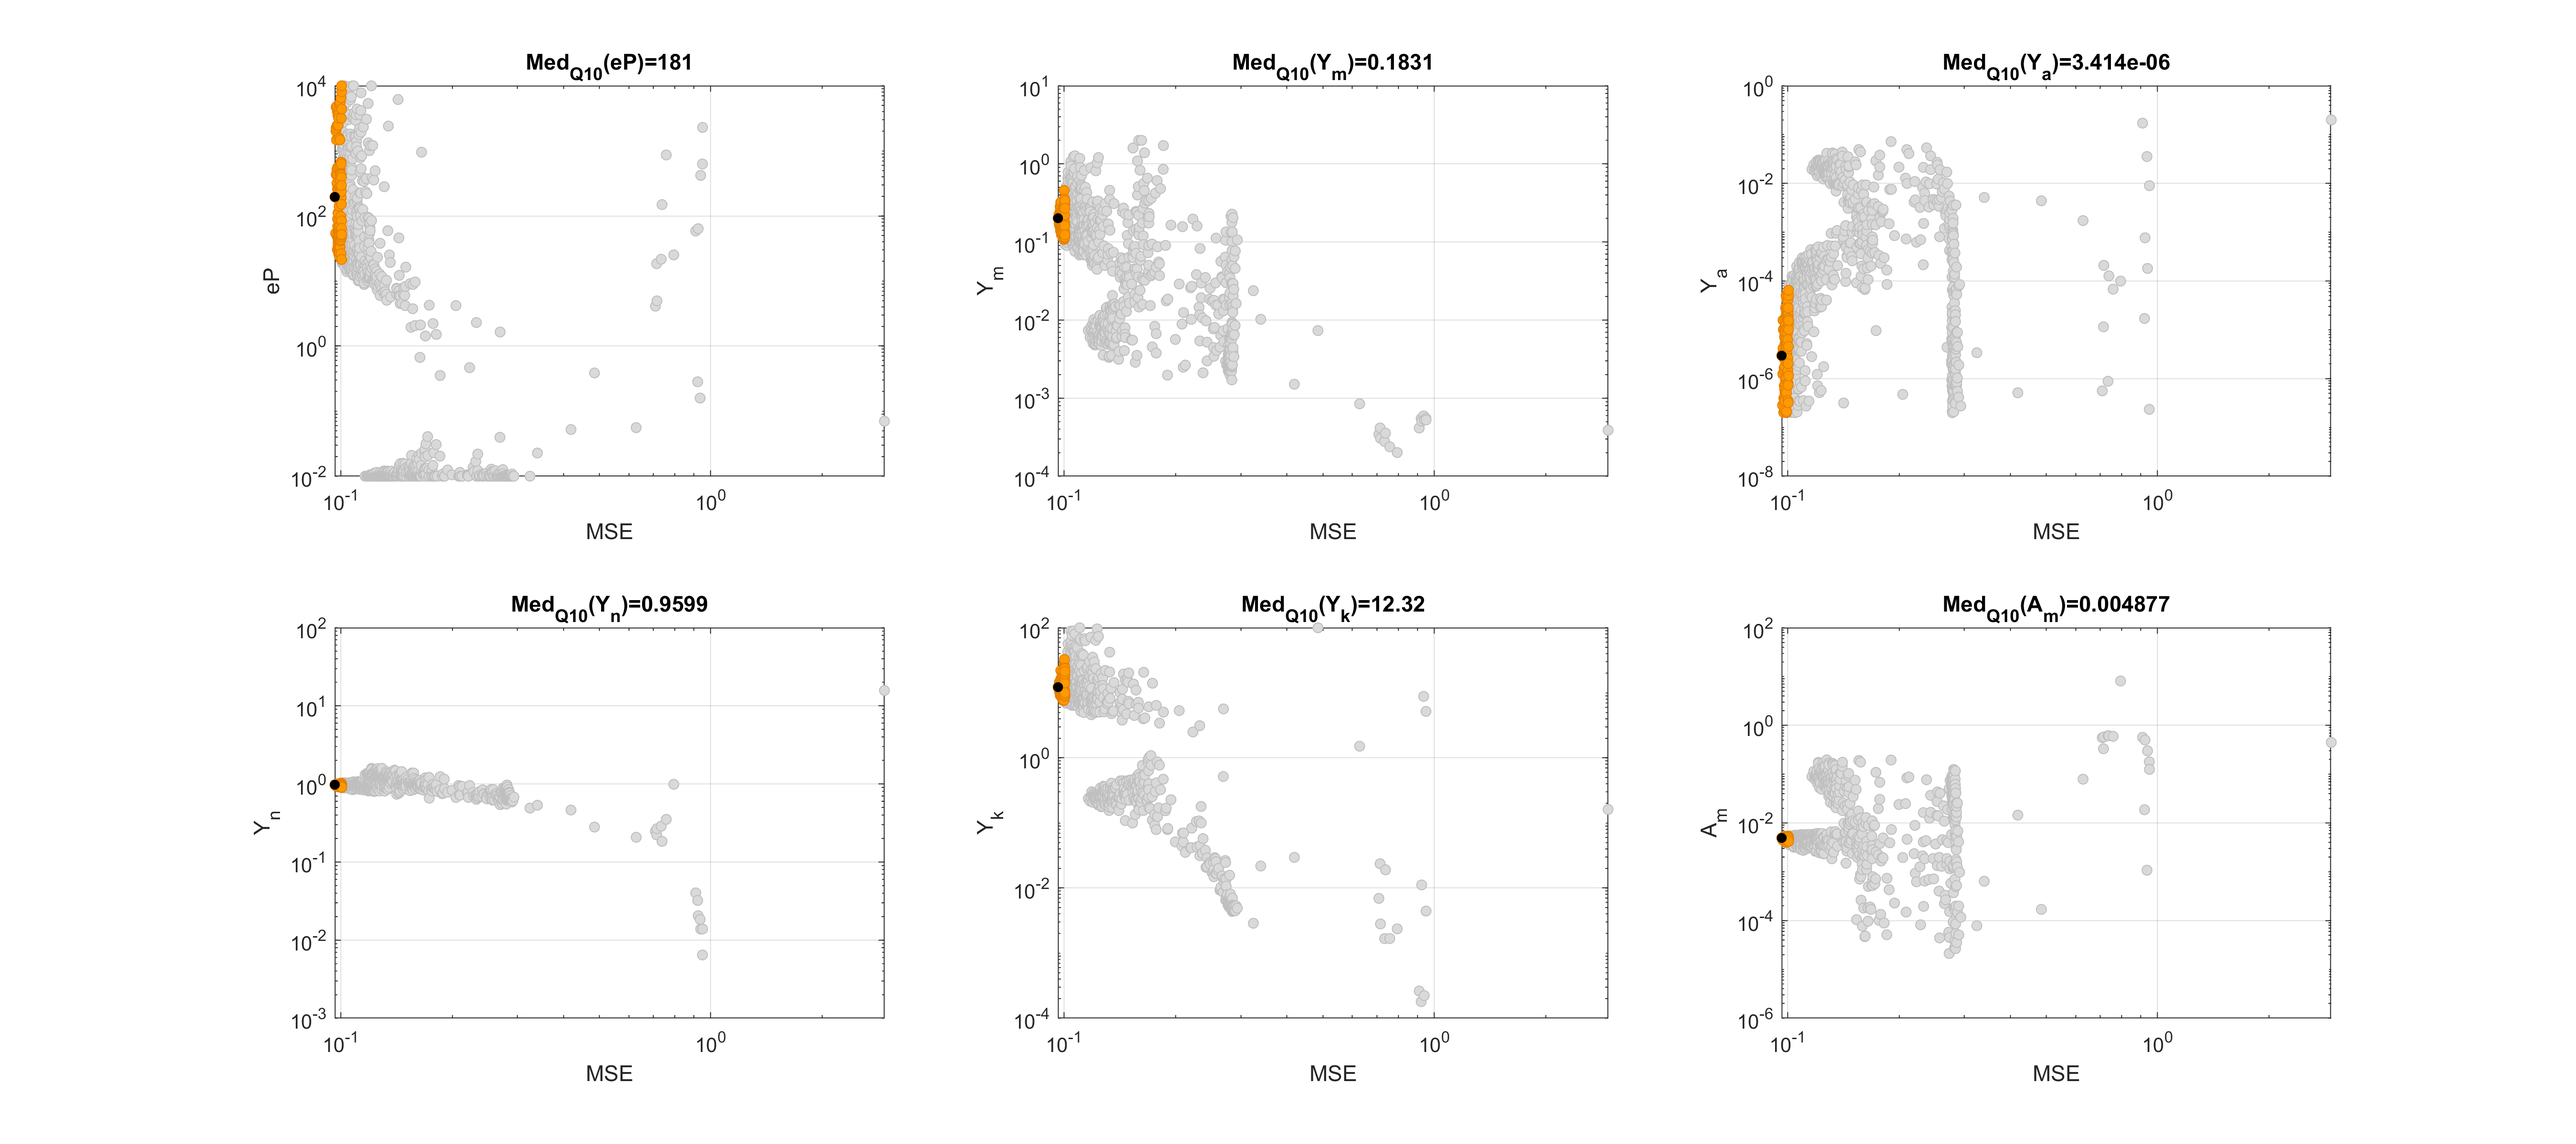
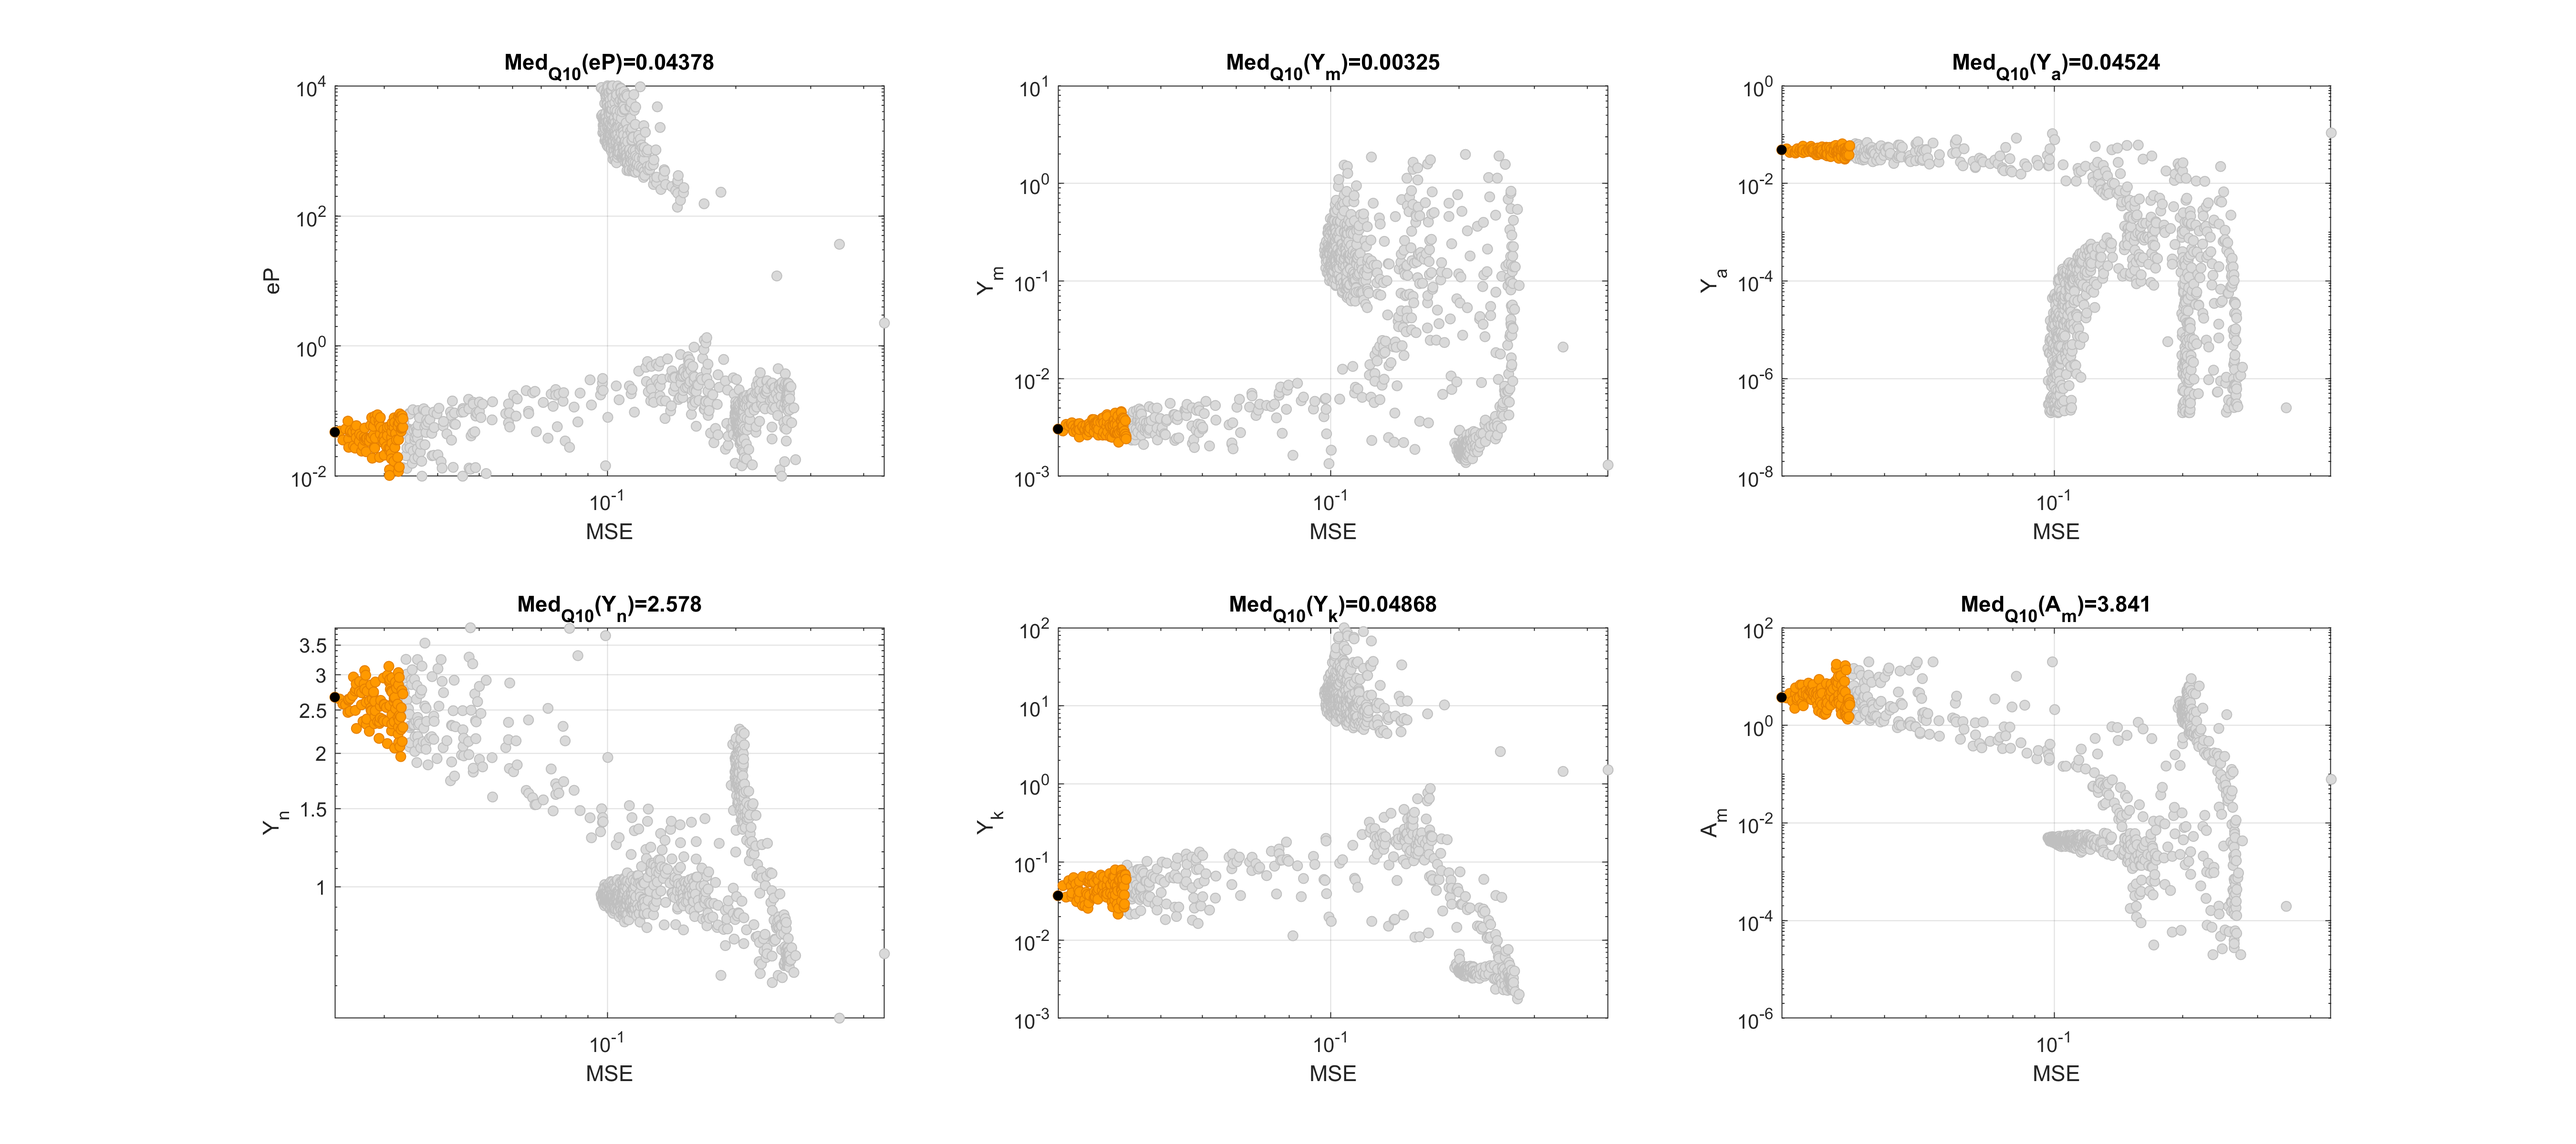
Reverting to ninth fitting attempt
Being these the best results so far.

diff --git a/RUN_FitMRW.m b/RUN_FitMRW.m
@@ -44,7 +44,7 @@ printAll = 0;   % Flag for printing full random walk
     p.nM = 0.4;         % Assume the measured fluorescence arbitrary units ([a.u.]) are proportional to the molecule concentration ([nM]), with 1 a.u. = 0.4 nM.
     
     p.eP = 1;           % [1/(nM min)]
-    p.eM = 0.01;        % [1/min]
+    p.eM = 1;           % [1/min]
     
     p.Y_m = 0.1;        % [nM/min]
     p.Y_a  = 0.01;
